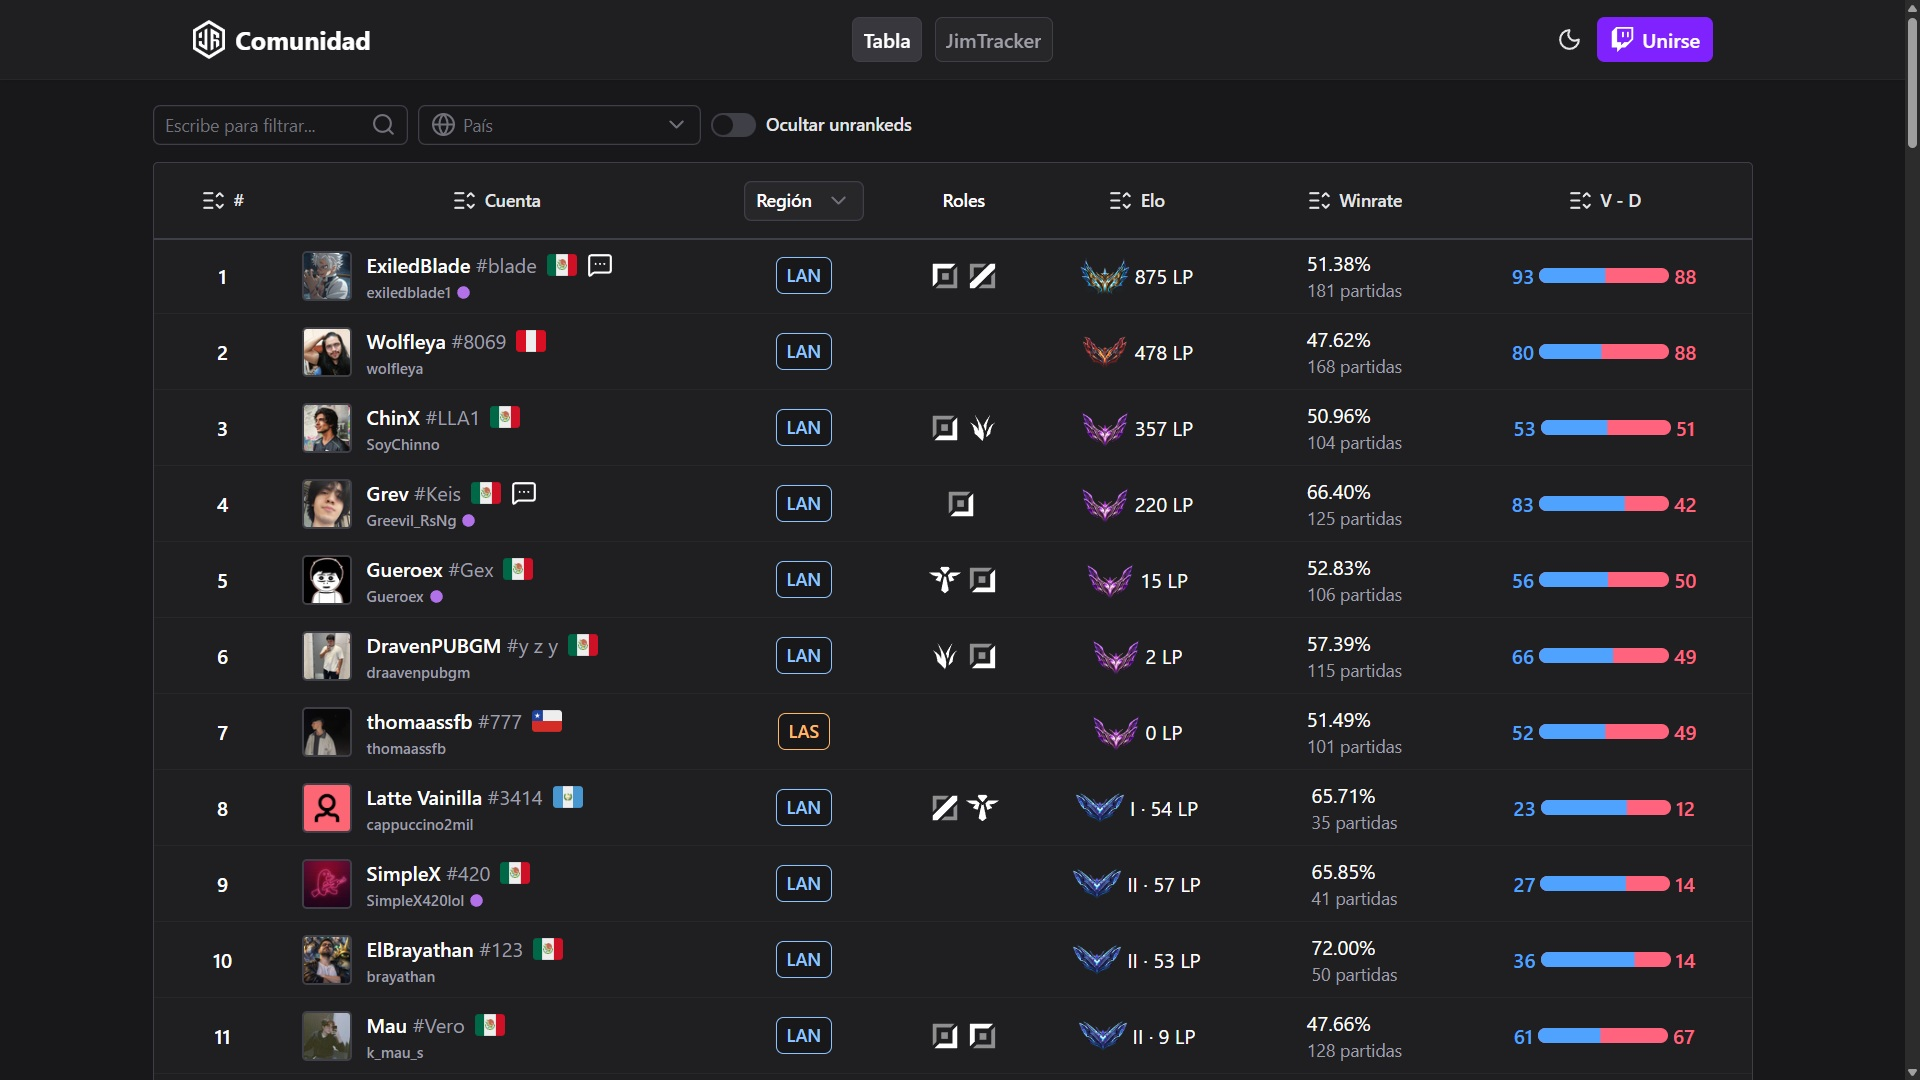
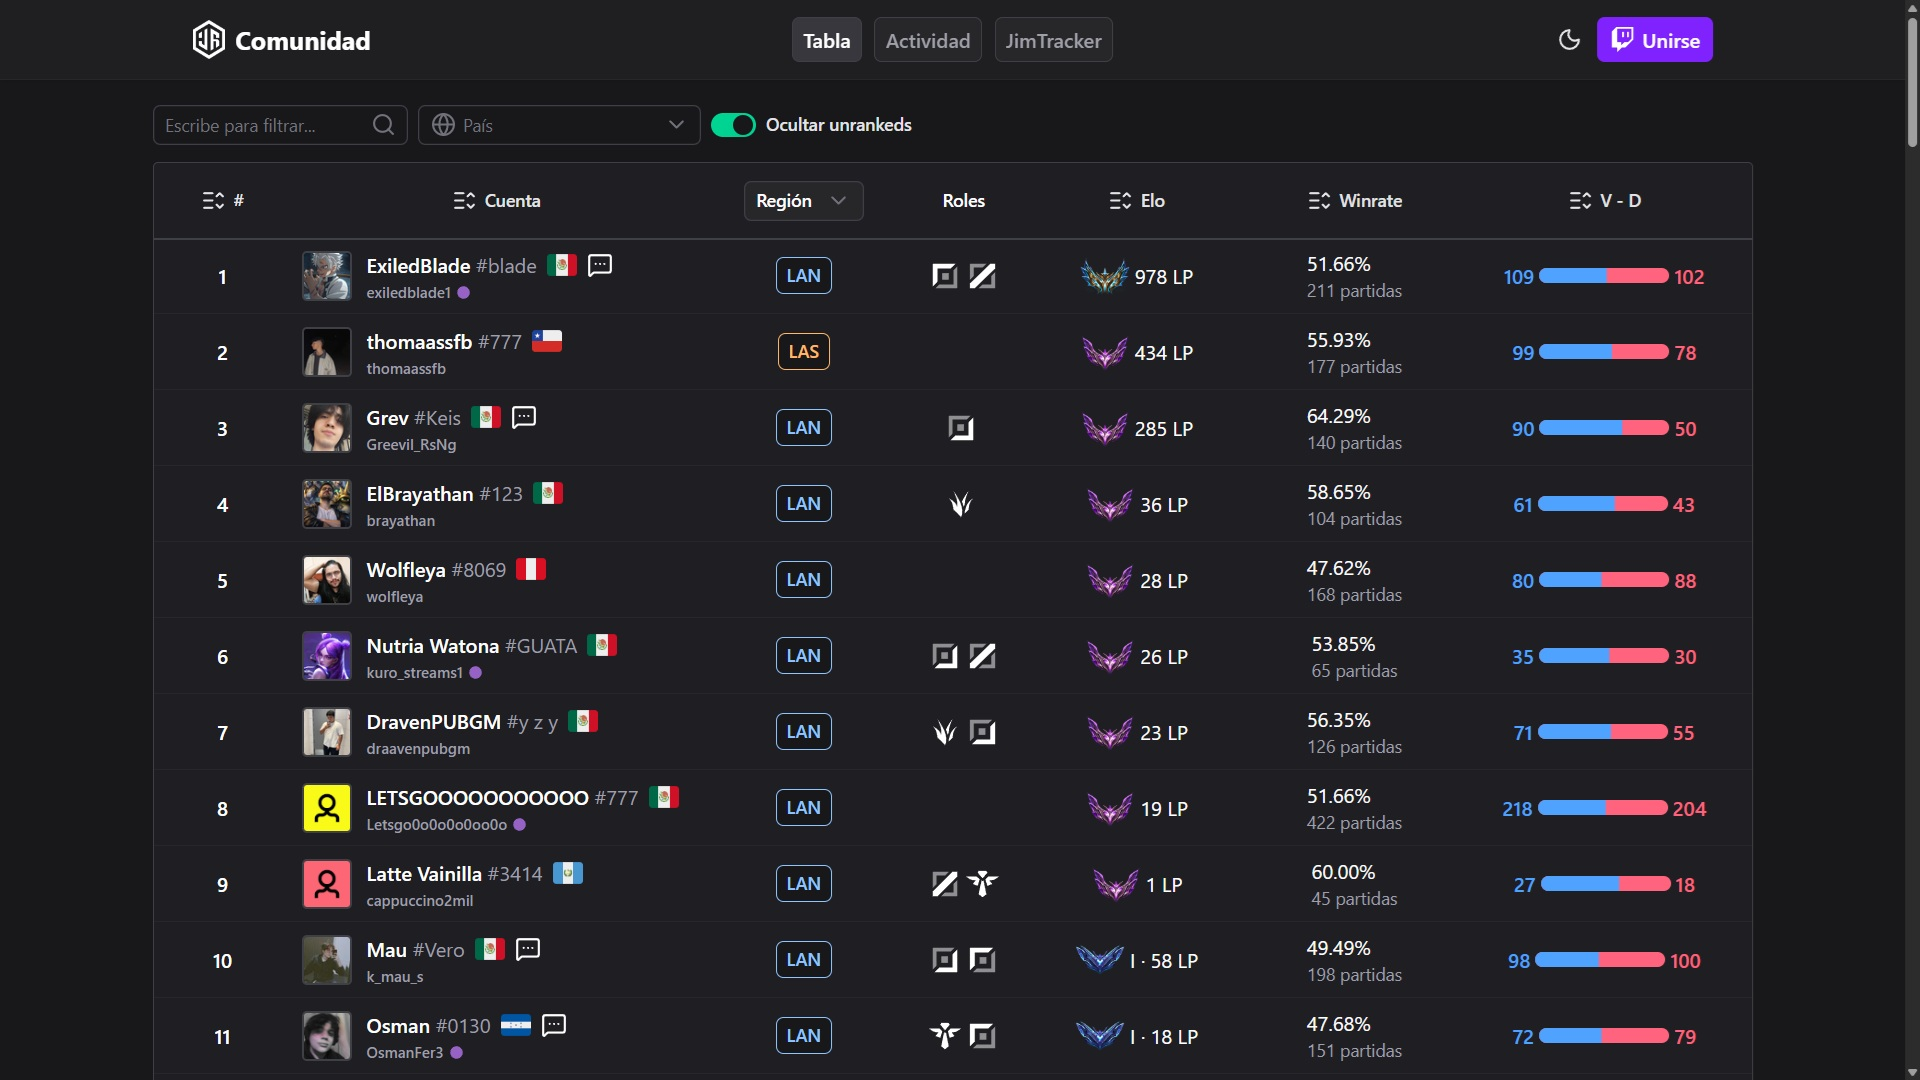
chore: add activity screenshot and update project images

diff --git a/app/utils/portfolio/projects.ts b/app/utils/portfolio/projects.ts
@@ -14,7 +14,8 @@ export default [
     images: [
       { src: "/images/projects/comunidad-jimtracker/table.jpg", alt: "Table page" },
       { src: "/images/projects/comunidad-jimtracker/distribution.jpg", alt: "Distribution section" },
-      { src: "/images/projects/comunidad-jimtracker/profile.jpg", alt: "Profile page" }
+      { src: "/images/projects/comunidad-jimtracker/profile.jpg", alt: "Profile page" },
+      { src: "/images/projects/comunidad-jimtracker/activity.jpg", alt: "Activity page" }
     ],
     technologies: ["Nuxt", "Vue.js", "Typescript", "Cloudflare Workers", "Cloudflare D1", "Cloudflare R2", "Drizzle-ORM", "Cloudflare Crons", "Twitch API", "Riot Games API"]
   },
